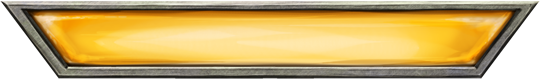
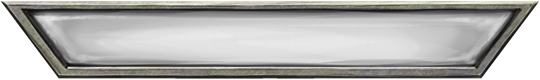
style: new design added to next and previus arrows

diff --git a/apps/web-client/src/styles.scss b/apps/web-client/src/styles.scss
@@ -166,8 +166,8 @@ body,
 .bp-skin-navigation-left-arrow {
   background-image: url('./assets/skins/futuristic/yellow/navigation-left-arrow.png');
   background-repeat: no-repeat;
-  width: 45px;
-  height: 16px;
+  width: 29px;
+  height: 34px;
 }
 
 .bp-skin-navigation-left-arrow:disabled {
@@ -178,8 +178,8 @@ body,
 .bp-skin-navigation-right-arrow {
   background-image: url('./assets/skins/futuristic/yellow/navigation-right-arrow.png');
   background-repeat: no-repeat;
-  width: 45px;
-  height: 16px;
+  width: 29px;
+  height: 34px;
 }
 
 .bp-skin-navigation-right-arrow:disabled {

diff --git a/apps/web-client/src/app/shared/components/inventory.component.ts b/apps/web-client/src/app/shared/components/inventory.component.ts
@@ -70,7 +70,7 @@ export type InventoryDirection = 'left' | 'right';
         <ng-content select="[pgInventoryBody]"></ng-content>
       </div>
 
-      <div class="flex justify-center gap-4">
+      <div class="flex justify-center gap-8 relative top-3">
         <button
           class="bp-skin-navigation-left-arrow"
           (click)="onPreviousPage()"
